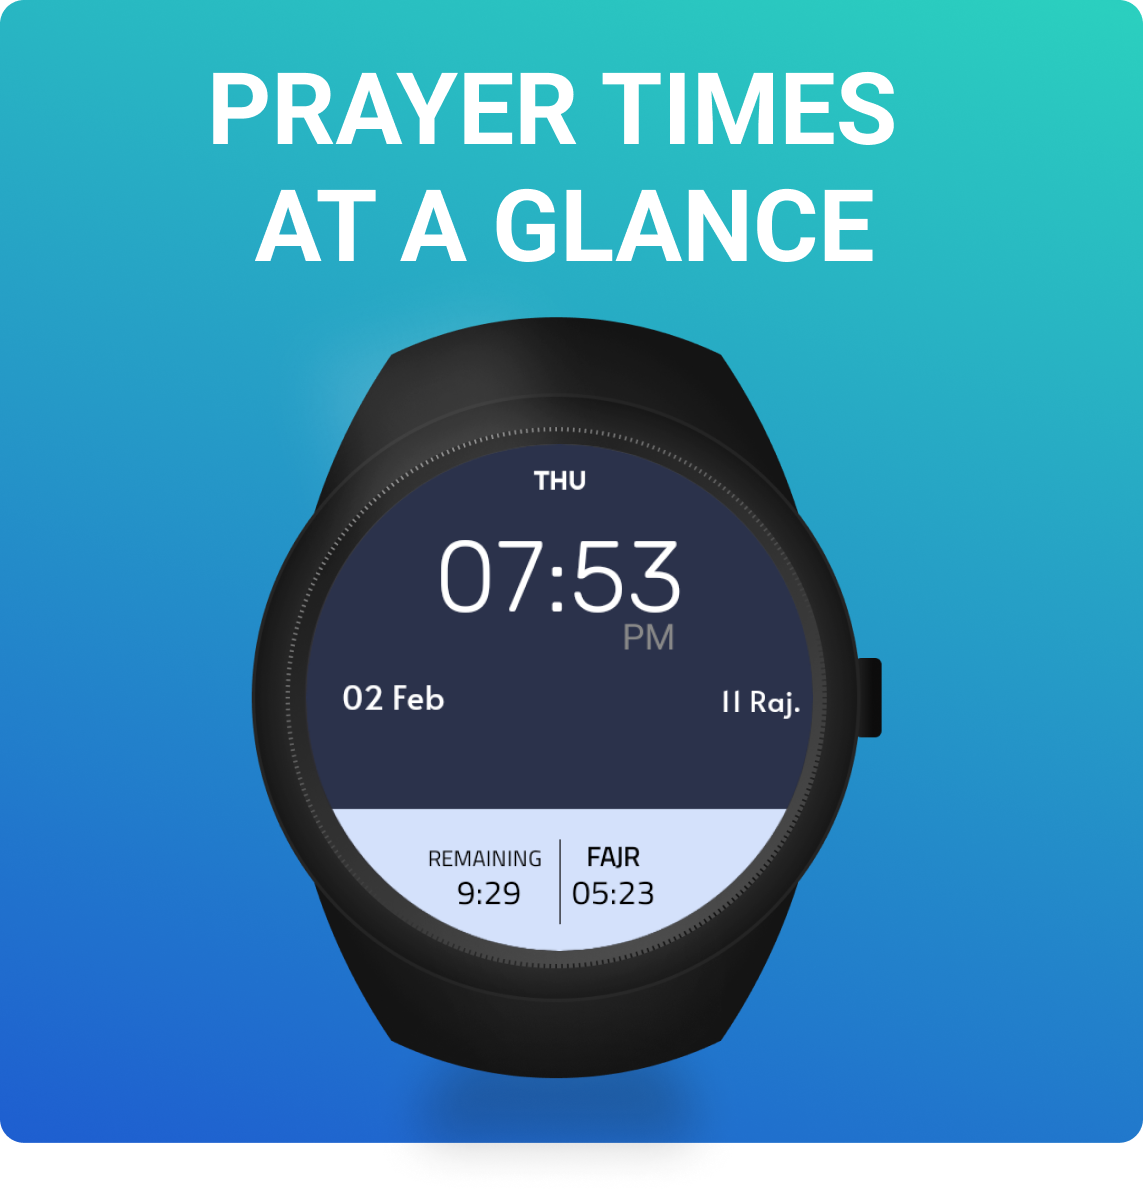
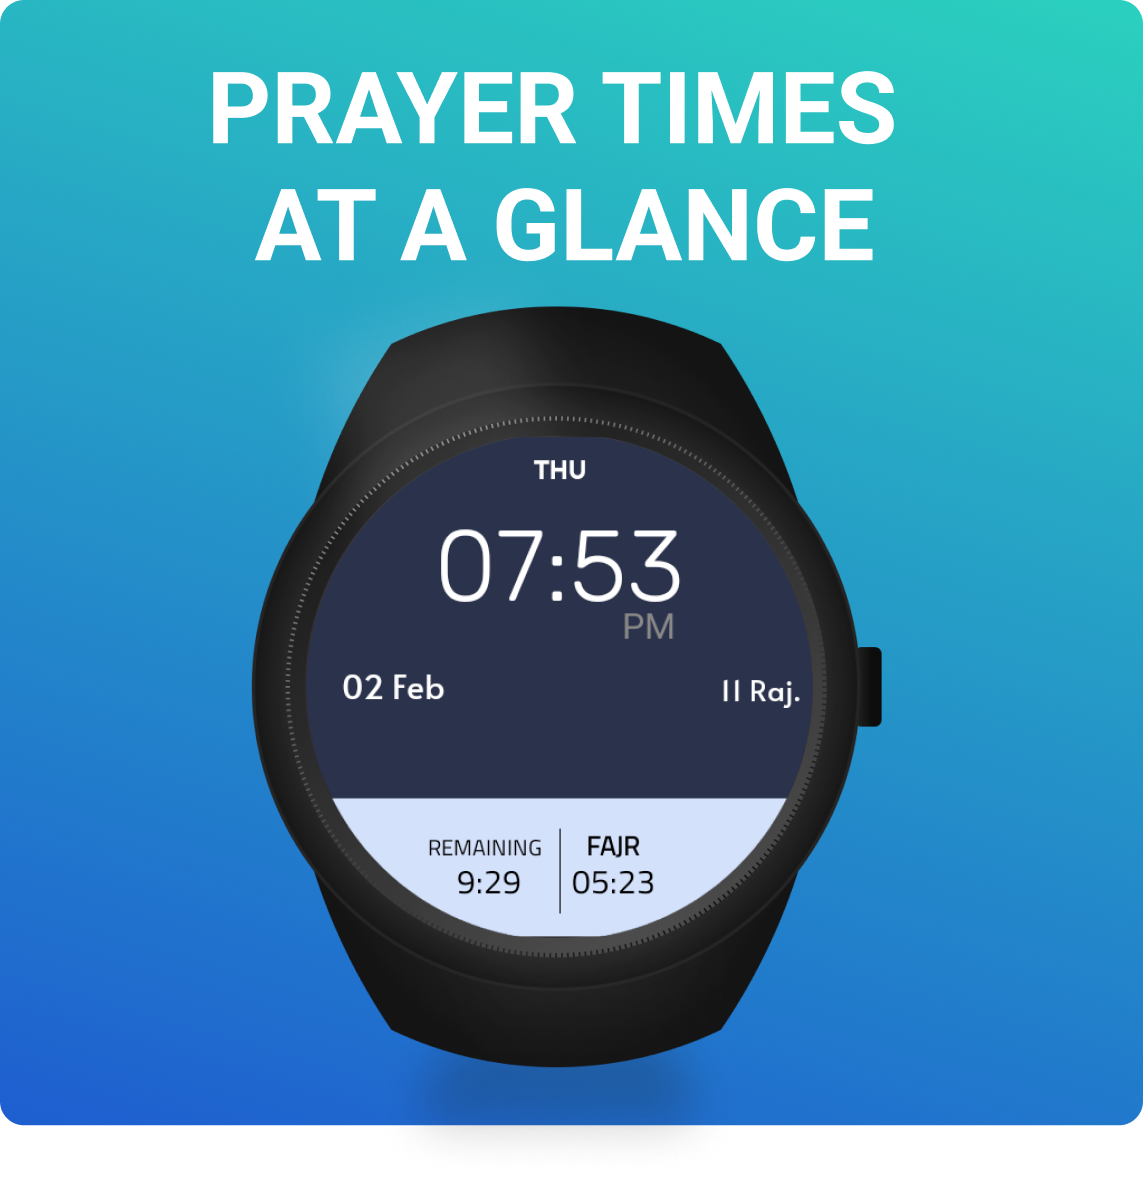
* Improved WatchFace Design * Added Customizable Colors * Added Support for 24H * Fixed Arabic Localization in mobile app

diff --git a/README.md b/README.md
@@ -14,9 +14,6 @@ Watch Face either using the Companion app on your phone or using your watch.
   <img src="etc/screenshot_1.png" width="225" /> 
   <img src="etc/screenshot_2.png" width="225" />
   <img src="etc/screenshot_3.png" width="225" />
-  <img src="etc/screenshot_4.png" width="225" />
-  <img src="etc/screenshot_5.png" width="225" />
-  <img src="etc/screenshot_6.png" width="225" />
 </p>
 
 ## TODOs
